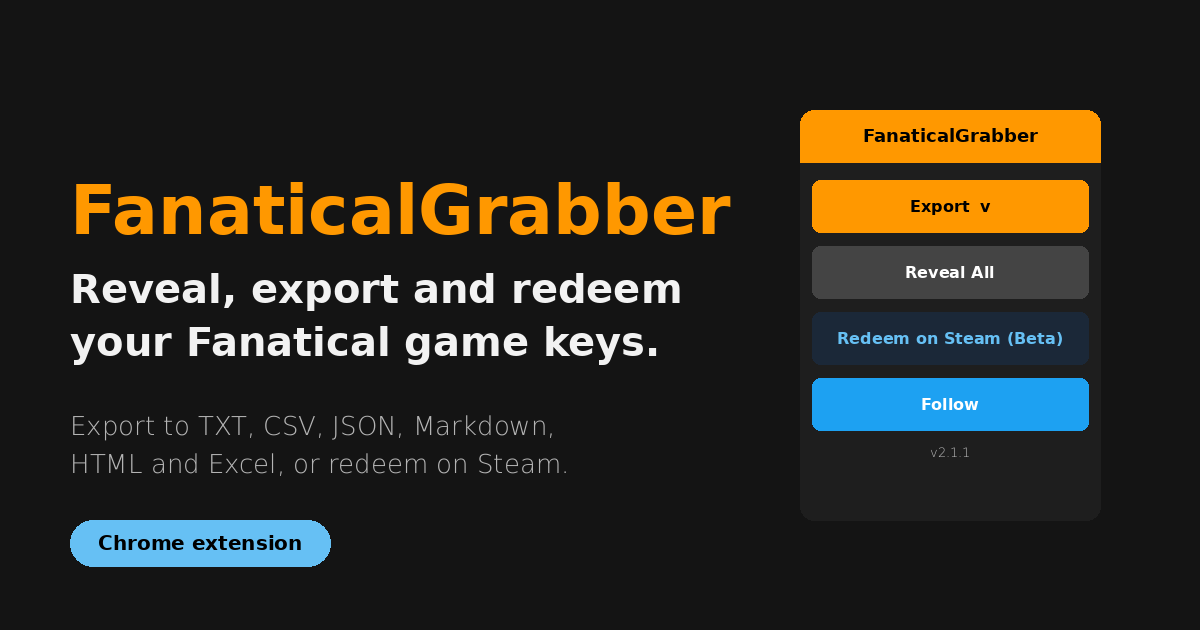
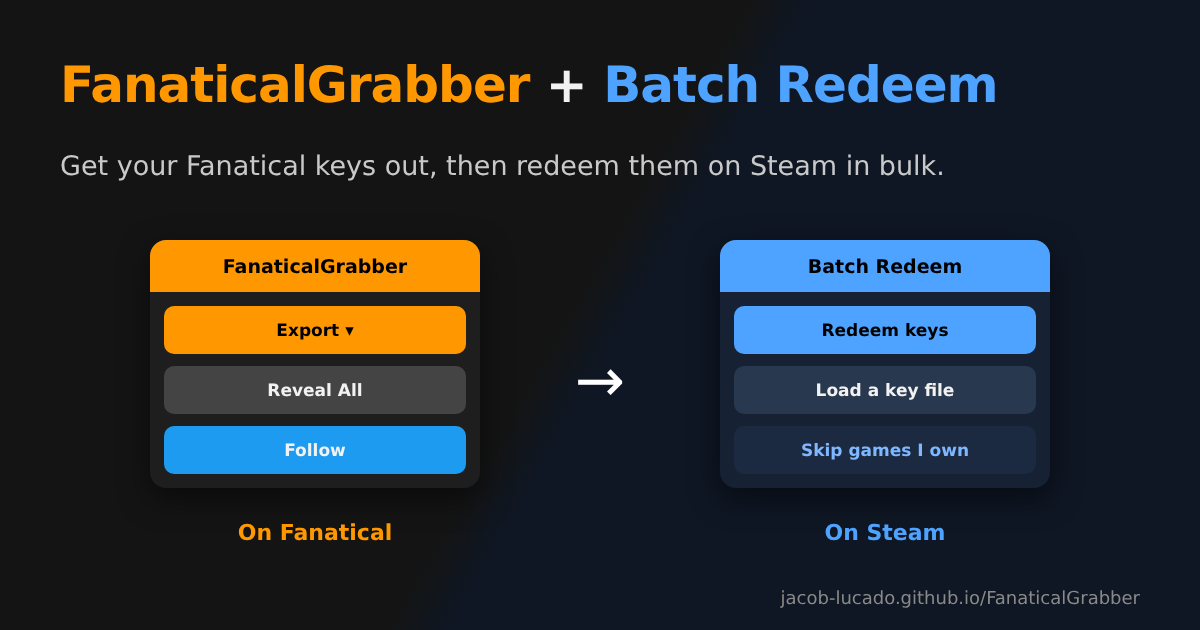
Social preview image and tags now show both FanaticalGrabber and Batch Redeem
Claude-Session: https://claude.ai/code/session_01Uxyj5kxpqSJP7J7uRiwZFx

diff --git a/docs/index.html b/docs/index.html
@@ -3,8 +3,8 @@
 <head>
 <meta charset="utf-8">
 <meta name="viewport" content="width=device-width, initial-scale=1">
-<title>FanaticalGrabber - Get your Fanatical keys out and onto Steam</title>
-<meta name="description" content="Stop clicking Reveal Key a hundred times. FanaticalGrabber pulls the game keys from your own Fanatical orders, saves them however you like, and redeems them on Steam for you.">
+<title>FanaticalGrabber + Batch Redeem - Get your Fanatical keys out and onto Steam</title>
+<meta name="description" content="Stop clicking Reveal Key a hundred times. FanaticalGrabber pulls the game keys from your own Fanatical orders and saves them however you like. Batch Redeem then activates them on Steam for you.">
 <link rel="canonical" href="https://jacob-lucado.github.io/FanaticalGrabber/">
 <meta name="theme-color" content="#ff9800">
 <link rel="icon" href="favicon.ico" sizes="any">
@@ -14,19 +14,19 @@
 <!-- Open Graph (Discord, Facebook, LinkedIn, Slack, iMessage, etc.) -->
 <meta property="og:type" content="website">
 <meta property="og:site_name" content="FanaticalGrabber">
-<meta property="og:title" content="FanaticalGrabber - Get your Fanatical keys out and onto Steam">
-<meta property="og:description" content="Stop clicking Reveal Key a hundred times. FanaticalGrabber pulls the game keys from your own Fanatical orders, saves them however you like, and redeems them on Steam for you.">
+<meta property="og:title" content="FanaticalGrabber + Batch Redeem - Get your Fanatical keys out and onto Steam">
+<meta property="og:description" content="Stop clicking Reveal Key a hundred times. FanaticalGrabber pulls the game keys from your own Fanatical orders and saves them however you like. Batch Redeem then activates them on Steam for you.">
 <meta property="og:url" content="https://jacob-lucado.github.io/FanaticalGrabber/">
-<meta property="og:image" content="https://jacob-lucado.github.io/FanaticalGrabber/fanaticalgrabber-og.png">
+<meta property="og:image" content="https://jacob-lucado.github.io/FanaticalGrabber/fanaticalgrabber-og.png?v=2">
 <meta property="og:image:width" content="1200">
 <meta property="og:image:height" content="630">
-<meta property="og:image:alt" content="FanaticalGrabber browser extension panel">
+<meta property="og:image:alt" content="FanaticalGrabber and Batch Redeem panels side by side">
 
 <!-- X / Twitter -->
 <meta name="twitter:card" content="summary_large_image">
-<meta name="twitter:title" content="FanaticalGrabber - Get your Fanatical keys out and onto Steam">
-<meta name="twitter:description" content="Stop clicking Reveal Key a hundred times. FanaticalGrabber pulls the game keys from your own Fanatical orders, saves them however you like, and redeems them on Steam for you.">
-<meta name="twitter:image" content="https://jacob-lucado.github.io/FanaticalGrabber/fanaticalgrabber-og.png">
+<meta name="twitter:title" content="FanaticalGrabber + Batch Redeem - Get your Fanatical keys out and onto Steam">
+<meta name="twitter:description" content="Stop clicking Reveal Key a hundred times. FanaticalGrabber pulls the game keys from your own Fanatical orders and saves them however you like. Batch Redeem then activates them on Steam for you.">
+<meta name="twitter:image" content="https://jacob-lucado.github.io/FanaticalGrabber/fanaticalgrabber-og.png?v=2">
 <style>
 :root{--bg:#141414;--panel:#1e1e1e;--raise:#2a2a2a;--line:#383838;--text:#f2f2f2;--mute:#b4b4b4;
 --orange:#ff9800;--green:#107c41;--steam:#66c0f4;--steam-bg:#1b2838;--x:#1da1f2}
